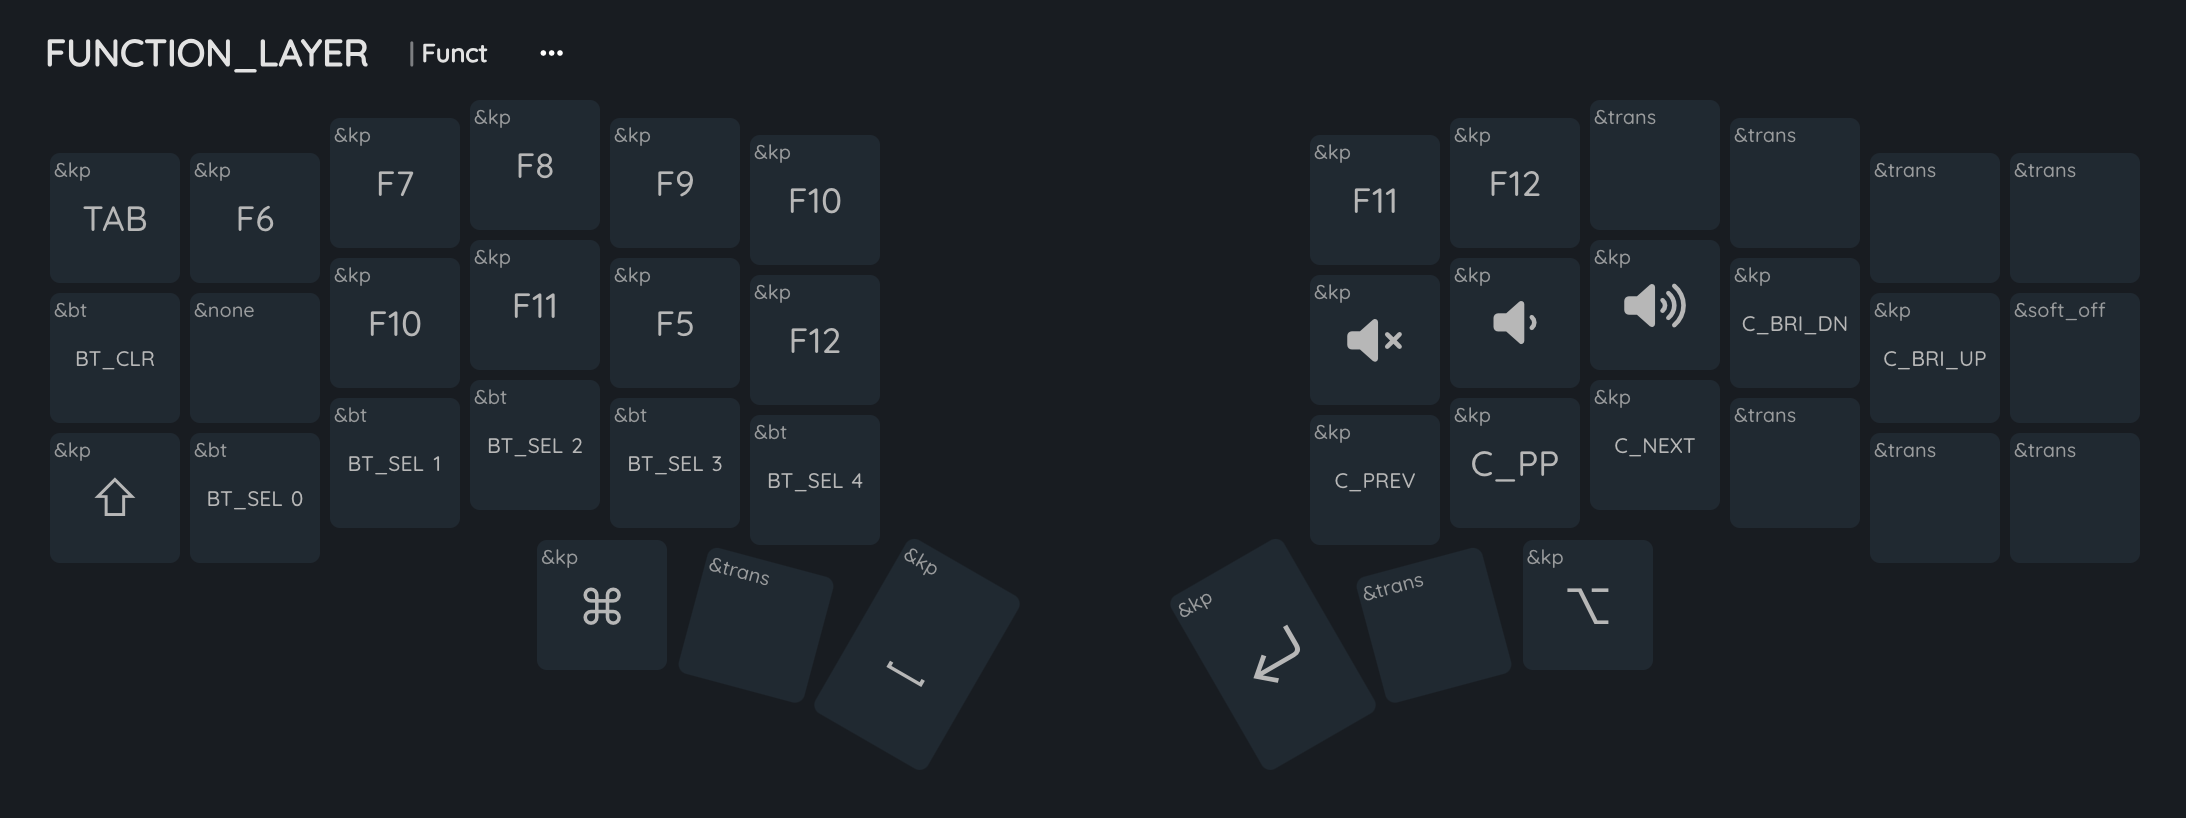
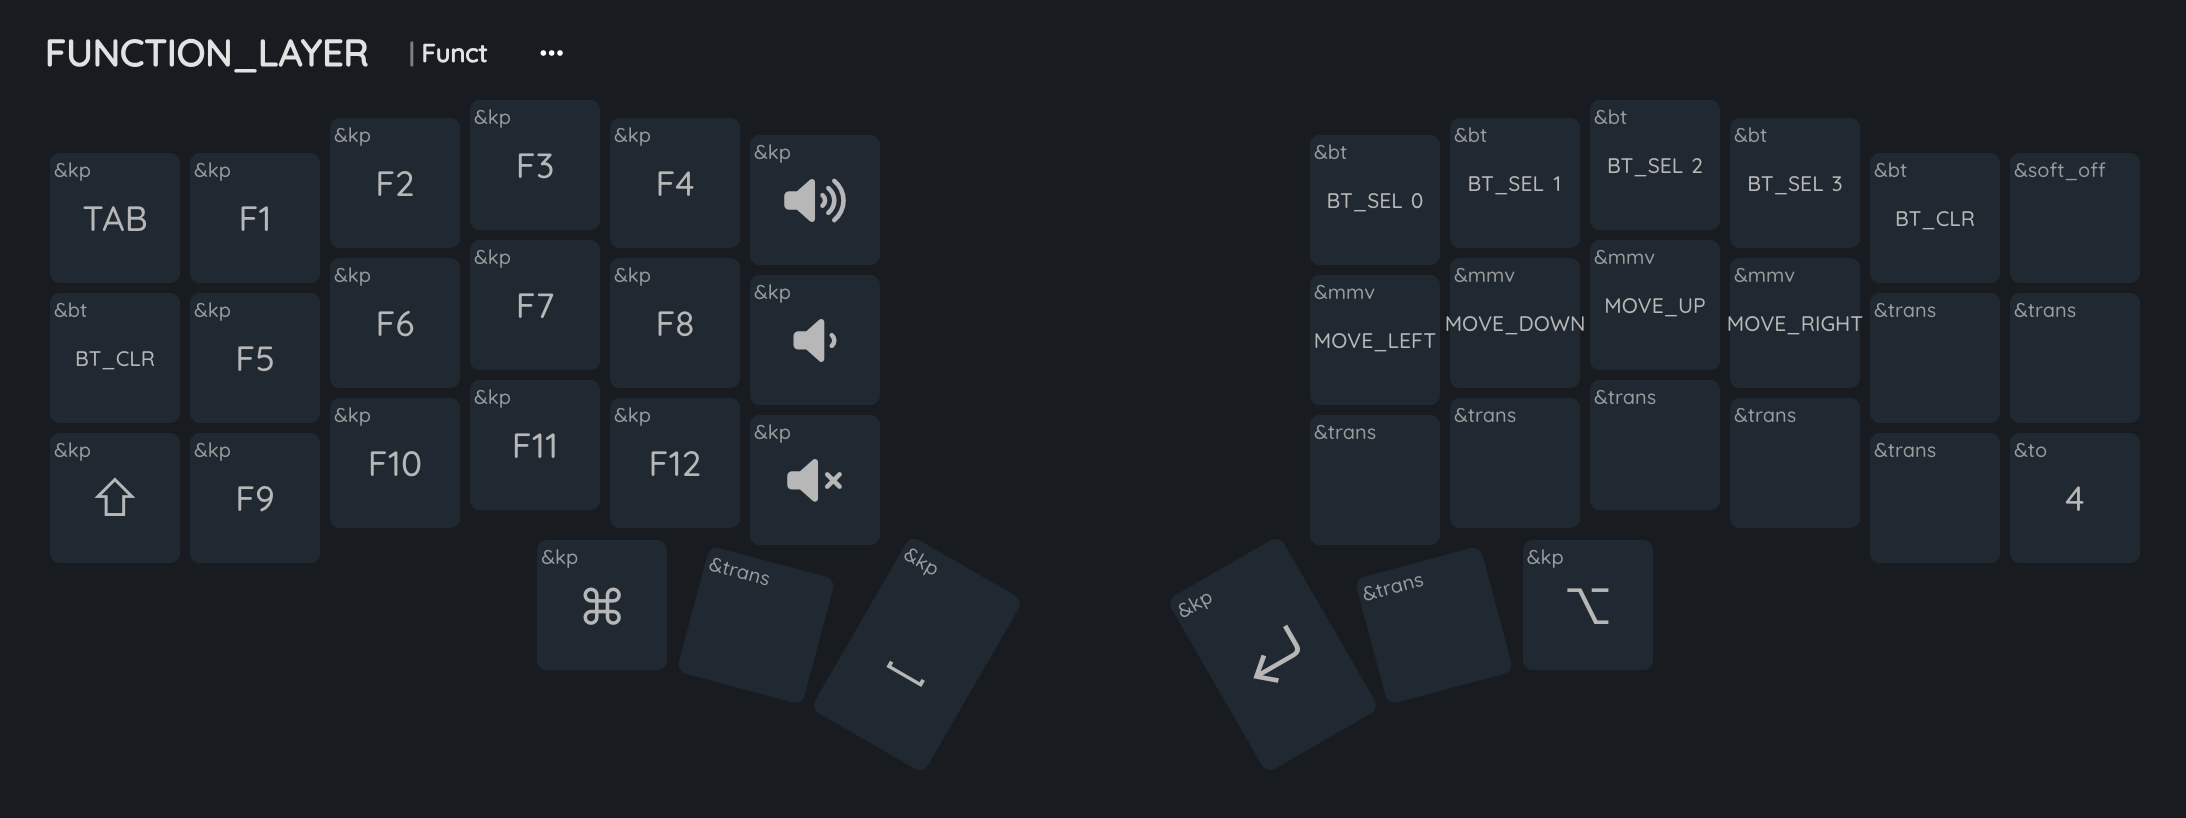
images and point

diff --git a/README.md b/README.md
@@ -10,15 +10,19 @@ The layout images are produced by [Keymap Editor](https://nickcoutsos.github.io/
 The default layer is QWERTY and replace CAPSLOCK by ESC
 
 ## Program Layer - Lower layer
-![default layer](image/lower_layer.png "Default Layer")
+![program layer](image/lower_layer.png "Program Layer")
 Most of keys used in programming are accessible through this layer.
 
 Left two lower rows are for brackets, and right two lower rows are for arithmetic/pointer operations.
 
 ## Navigation Layer - Upper layer
-![default layer](image/raise_layer.png "Default Layer")
+![navigation layer](image/raise_layer.png "Navigation Layer")
 This layer is for navigation. Arrows and window manager shortcuts are defined here with VIM arrow convention.
 
 ## Function Layer - Super layer
-![default layer](image/function_layer.png "Default Layer")
+![function layer](image/function_layer.png "Function Layer")
 Function keys and media keys, 
+
+## Presentation Layer - Super layer
+![Presentation layer](image/presentation_layer.png "Default Layer")
+One-hand presentation related keys.
